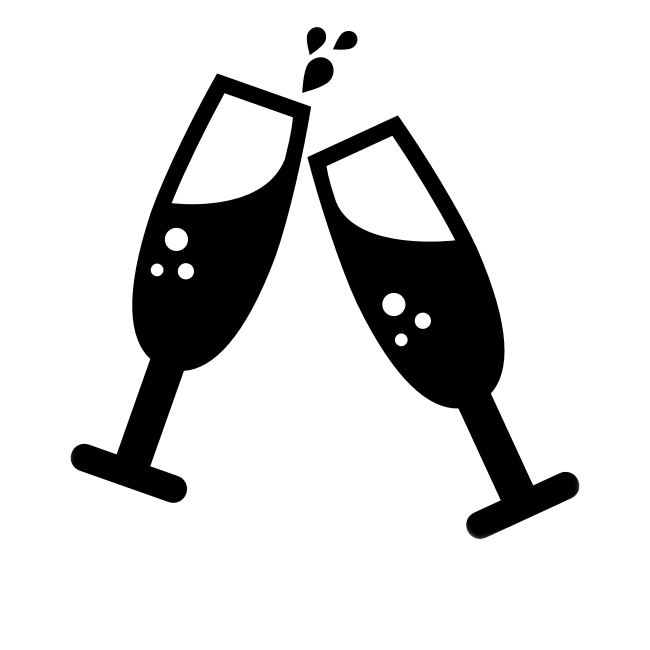
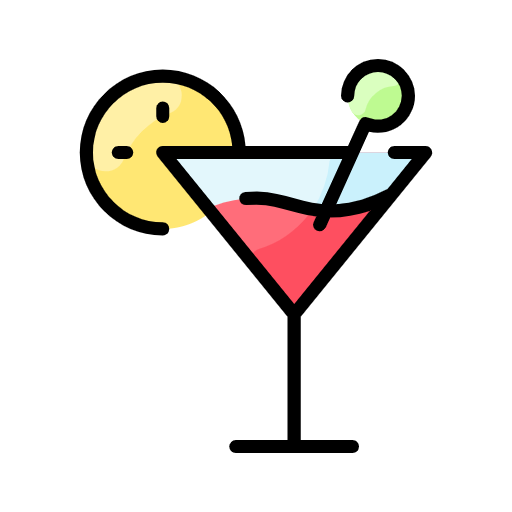
slike

Changed region(s): [[0.0938, 0.0312, 0.9062, 0.9062]]

diff --git a/_includes/hr_data/our_story.html b/_includes/hr_data/our_story.html
@@ -43,7 +43,7 @@
             <div class="row">
                 <div class="col-lg-12 text-center">
                     <h2 class="section-heading">Zaruke</h2>
-                    <h6><a href="https://www.instagram.com/dar_mar_pix?igsh=MWF1ZGd6bTh4Zno4cQ==" target="_blank">slikao DarMar Pix</a></h6>
+                    <h6><a href="https://www.instagram.com/dar_mar_pix?igsh=MWF1ZGd6bTh4Zno4cQ==" target="_blank">slikao DarMar Pix</a></h6>256650
                 </div>
             </div>
         </div>
